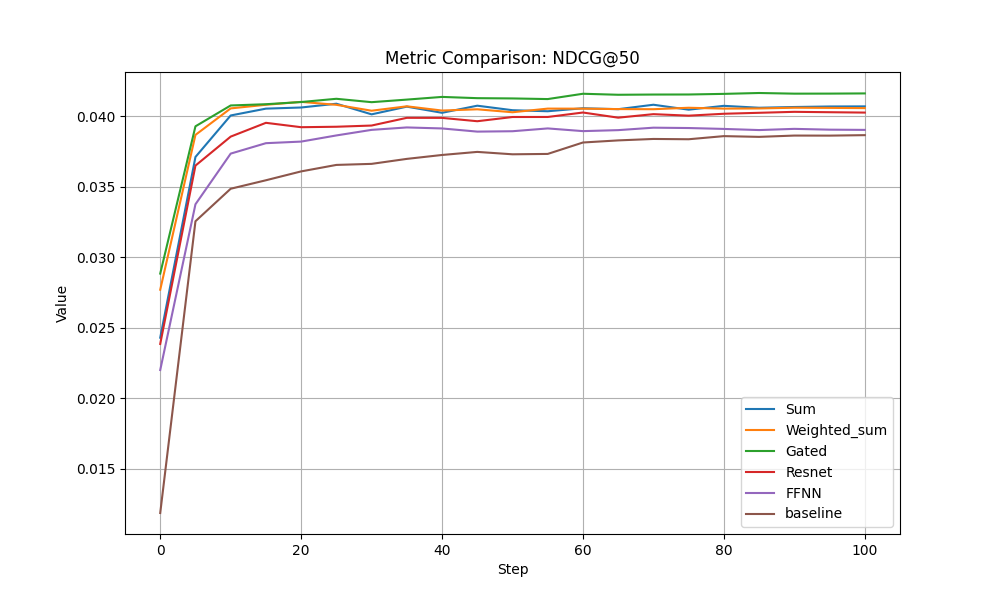
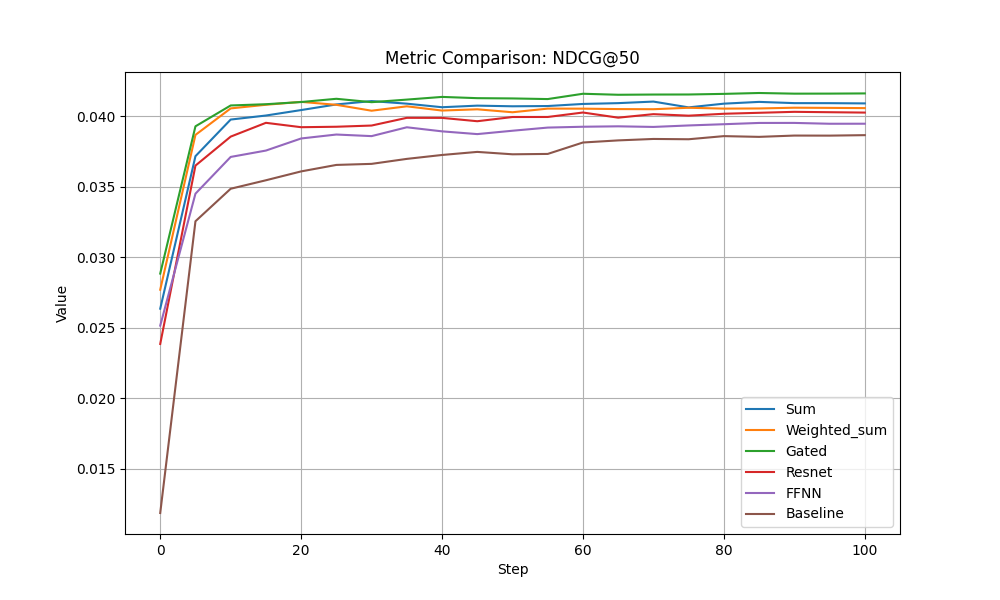
更新作图及结果

diff --git a/draw_metric_curves.py b/draw_metric_curves.py
@@ -105,12 +105,12 @@ if __name__ == "__main__":
 
 
     EXP_PATHS_512b_wd_lr_scheduled = {
-        "Sum": "exps/amzn23_office-l50-wd_lrd/HSTU-b4-h4-dqk16-dv16-lsilud0.5-ad0.0_blair_DotProduct_local_text-l2-eps1e-06_ssl-t0.05-n512-b512-lr0.001-cosmin1e-05-wu100-wd0.001-2025-11-23-fe5/events.out.tfevents.1763829841.x1000c0s4b0n1.1358792.0",
+        "Sum": "exps/amzn23_office-l50-wd_lrd/HSTU-b4-h4-dqk16-dv16-lsilud0.5-ad0.0_blair_DotProduct_local_text-l2-eps1e-06_ssl-t0.05-n512-b512-lr0.001-cosmin1e-05-wu100-wd0.001-2025-11-23-fe5/events.out.tfevents.1763868888.x1000c0s4b0n1.2154623.0",
         "Weighted_sum":"exps/amzn23_office-l50-wd_lrd/amzn23_office-I50_weighted_sum_wd_lr/events.out.tfevents.1763833030.I252664a0bd0060187d.1980.0",
         "Gated": "exps/amzn23_office-l50-wd_lrd/HSTU-b4-h4-dqk16-dv16-lsilud0.5-ad0.0_gated_DotProduct_local_text-l2-eps1e-06_ssl-t0.05-n512-b512-lr0.001-cosmin1e-05-wu100-wd0.001-2025-11-23-fe5/events.out.tfevents.1763829228.x1000c0s4b0n1.1341390.0",
         "Resnet": "exps/amzn23_office-l50-wd_lrd/HSTU-b4-h4-dqk16-dv16-lsilud0.5-ad0.0_resnet_mlp_DotProduct_local_text-l2-eps1e-06_ssl-t0.05-n512-b512-lr0.001-cosmin1e-05-wu100-wd0.001-2025-11-22-fe5/events.out.tfevents.1763826890.x1000c0s2b0n1.1277715.0",
-        "FFNN": "exps/amzn23_office-l50-wd_lrd/HSTU-b4-h4-dqk16-dv16-lsilud0.5-ad0.0_concat_DotProduct_local_text-l2-eps1e-06_ssl-t0.05-n512-b512-lr0.001-cosmin1e-05-wu100-wd0.001-2025-11-23-fe5/events.out.tfevents.1763829585.x1000c0s4b0n1.1350396.0",
-        "baseline": "exps/amzn23_office-l50-wd_lrd/HSTU-b4-h4-dqk16-dv16-lsilud0.5-ad0.0_baseline_DotProduct_local-l2-eps1e-06_ssl-t0.05-n512-b512-lr0.001-cosmin1e-05-wu100-wd0.001-2025-11-23-fe5/events.out.tfevents.1763828989.x1000c0s4b0n1.1336929.0",
+        "FFNN": "exps/amzn23_office-l50-wd_lrd/HSTU-b4-h4-dqk16-dv16-lsilud0.5-ad0.0_concat_DotProduct_local_text-l2-eps1e-06_ssl-t0.05-n512-b512-lr0.001-cosmin1e-05-wu100-wd0.001-2025-11-23-fe5/events.out.tfevents.1763873554.x1000c0s4b0n1.2256998.0",
+        "Baseline": "exps/amzn23_office-l50-wd_lrd/HSTU-b4-h4-dqk16-dv16-lsilud0.5-ad0.0_baseline_DotProduct_local-l2-eps1e-06_ssl-t0.05-n512-b512-lr0.001-cosmin1e-05-wu100-wd0.001-2025-11-23-fe5/events.out.tfevents.1763828989.x1000c0s4b0n1.1336929.0",
     }
 
     EXP_PATHS_128b_wd = {
